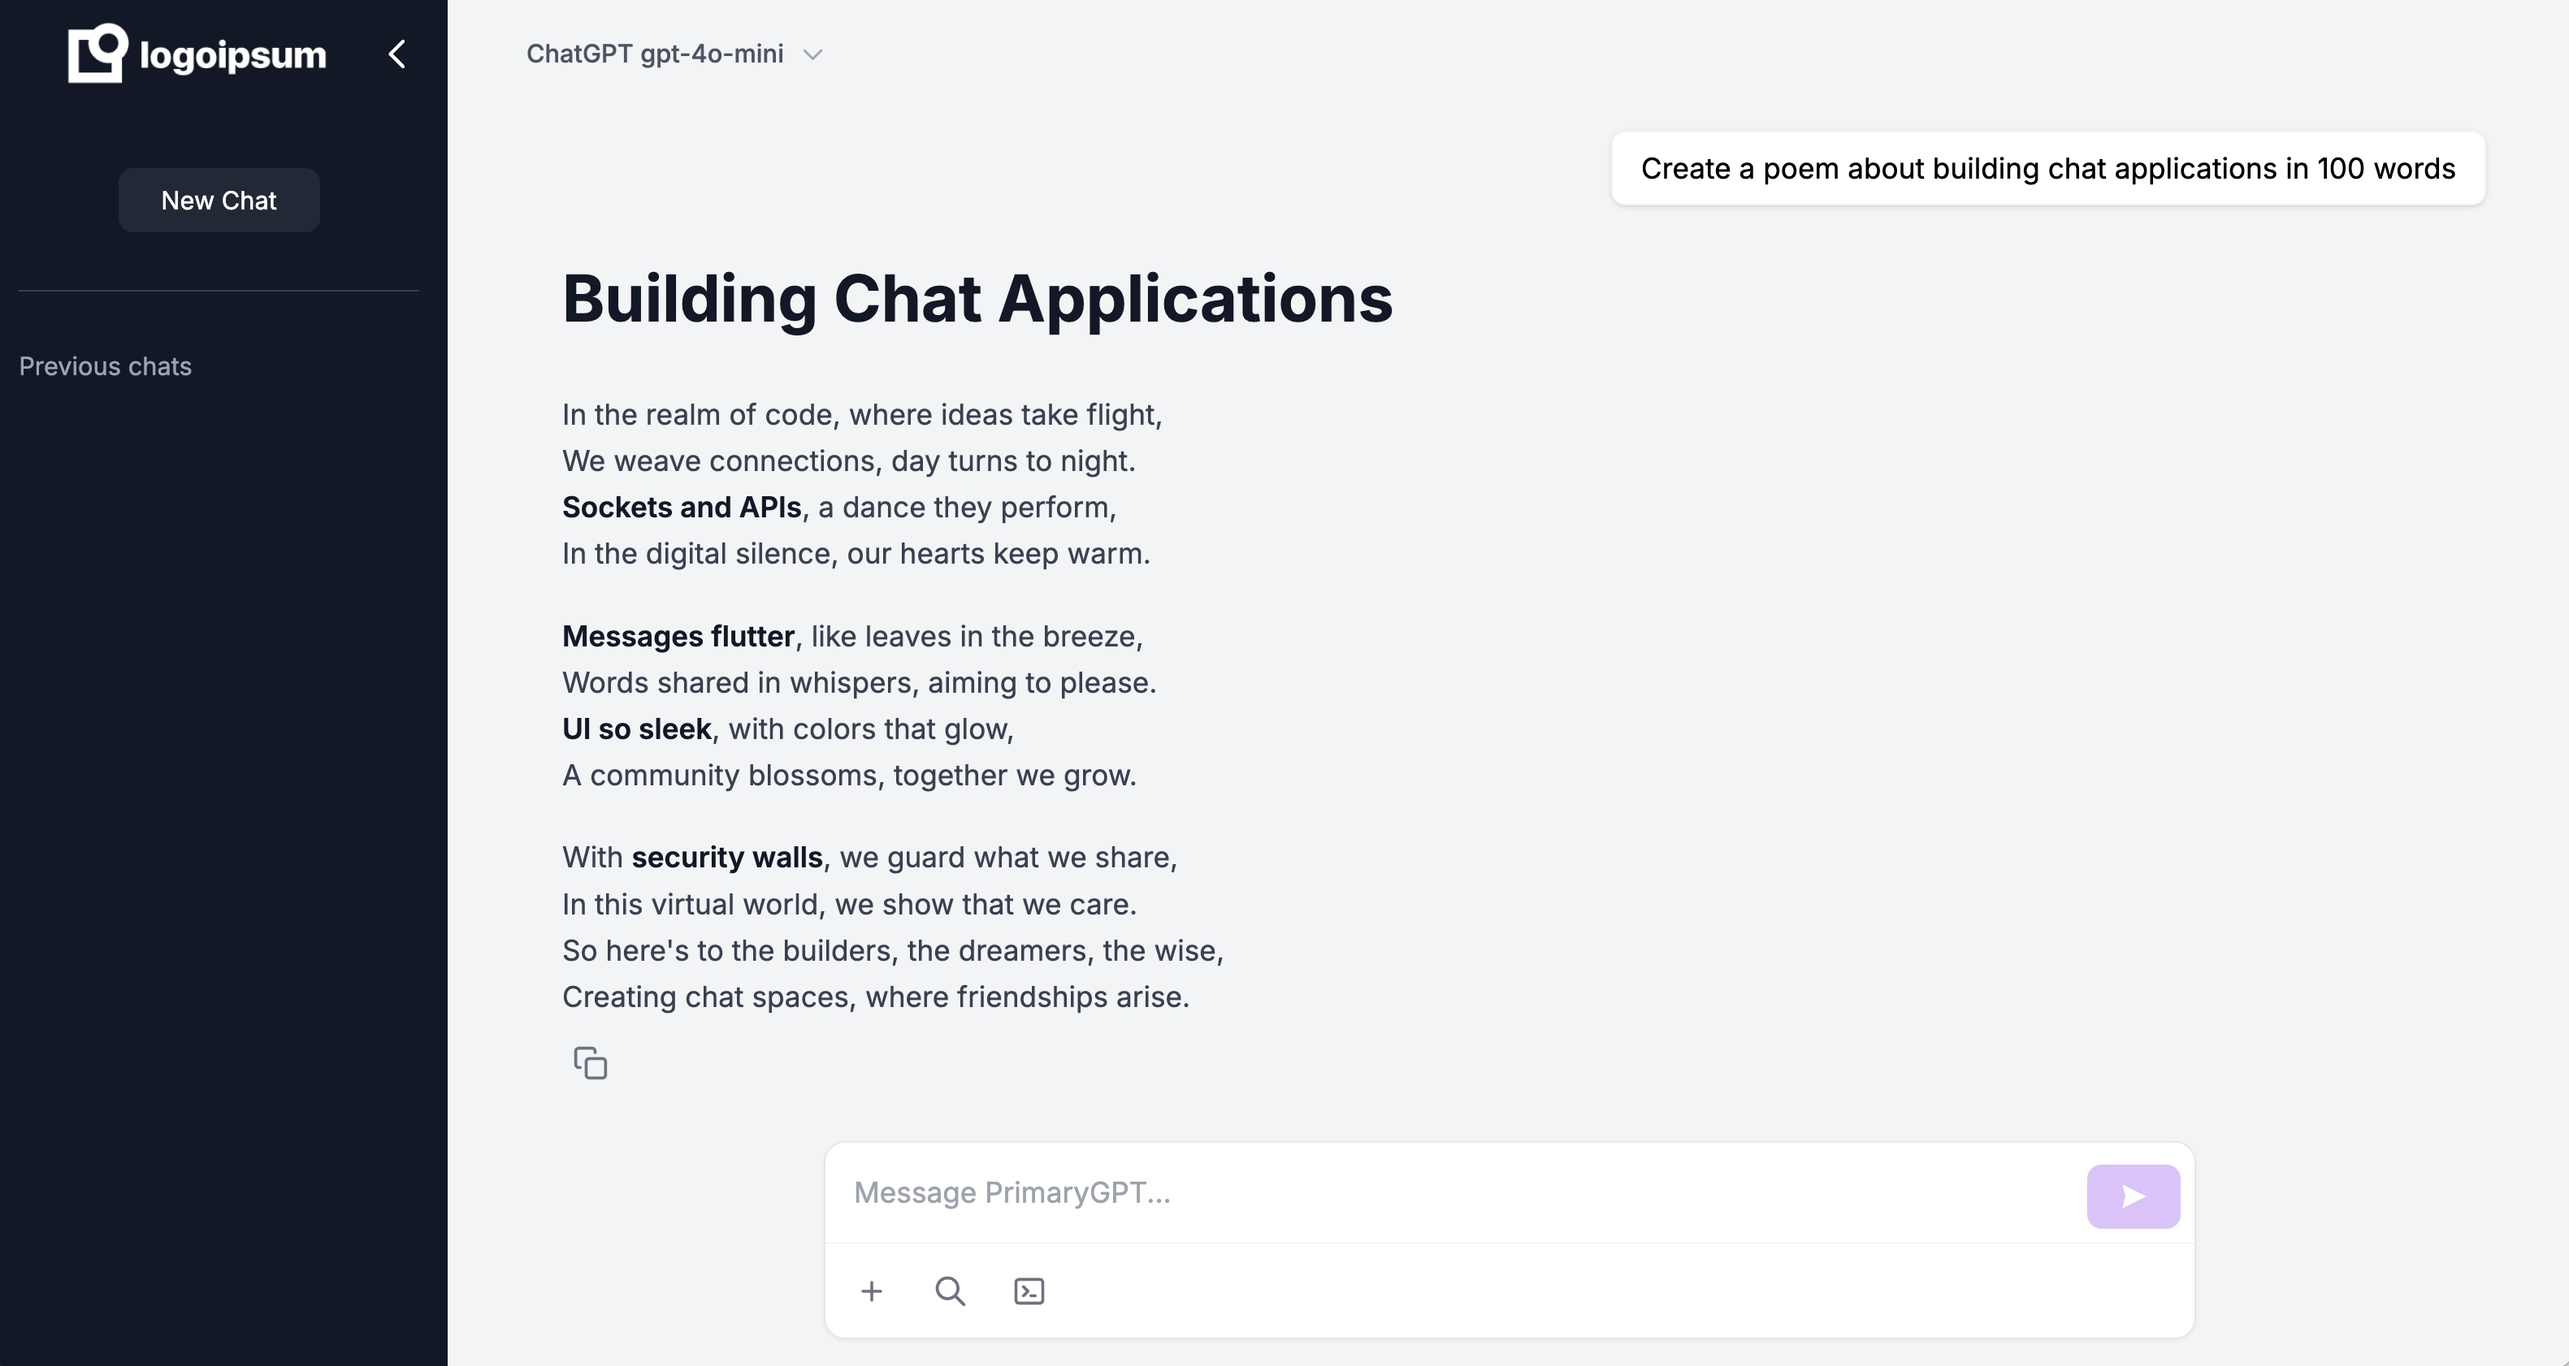
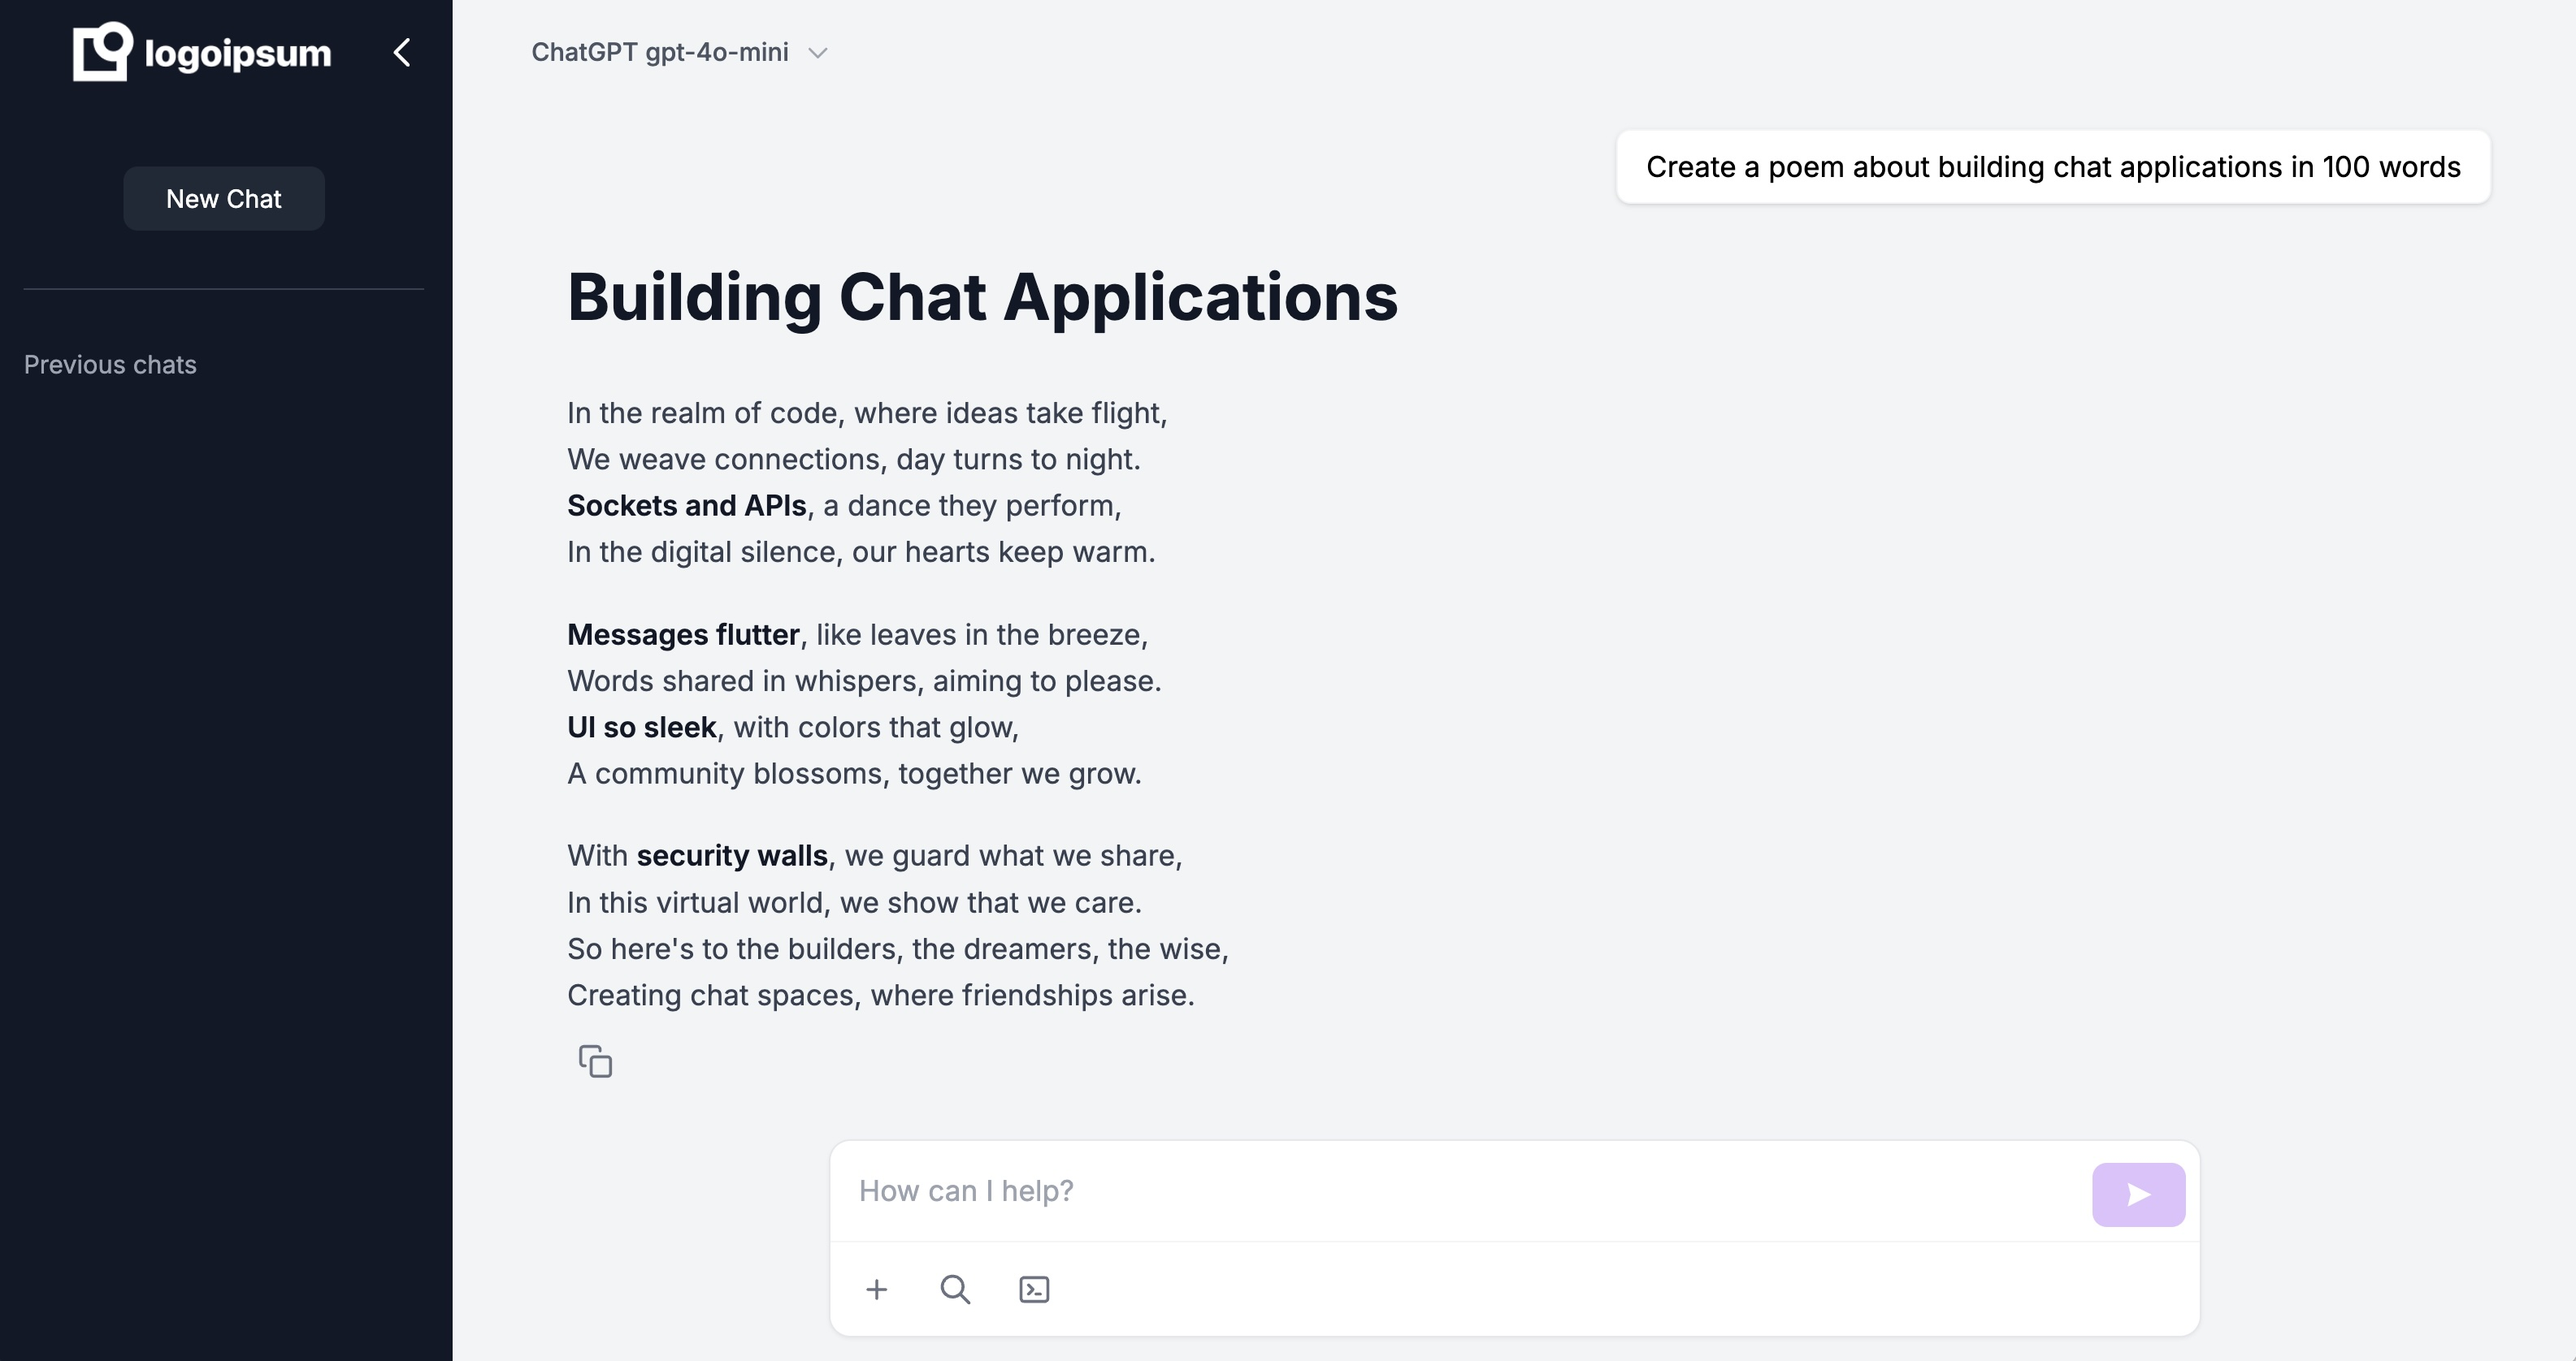
Initial commit: AI Chat Application

diff --git a/frontend/src/app/page.tsx b/frontend/src/app/page.tsx
@@ -484,7 +484,7 @@ export default function Home() {
                   onChange={(e) => setInput(e.target.value)}
                   onKeyDown={handleKeyDown}
                   className="flex-1 resize-none p-2 focus:outline-none"
-                  placeholder="Message PrimaryGPT..."
+                  placeholder="How can I help?"
                   style={{ maxHeight: '200px', minHeight: '24px' }}
                 />
                 <button 
